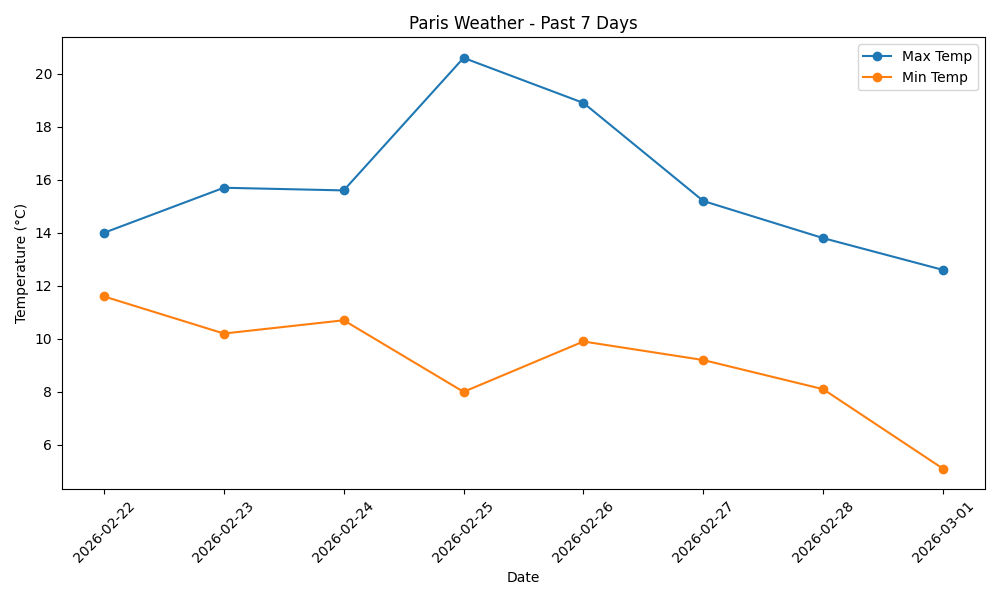
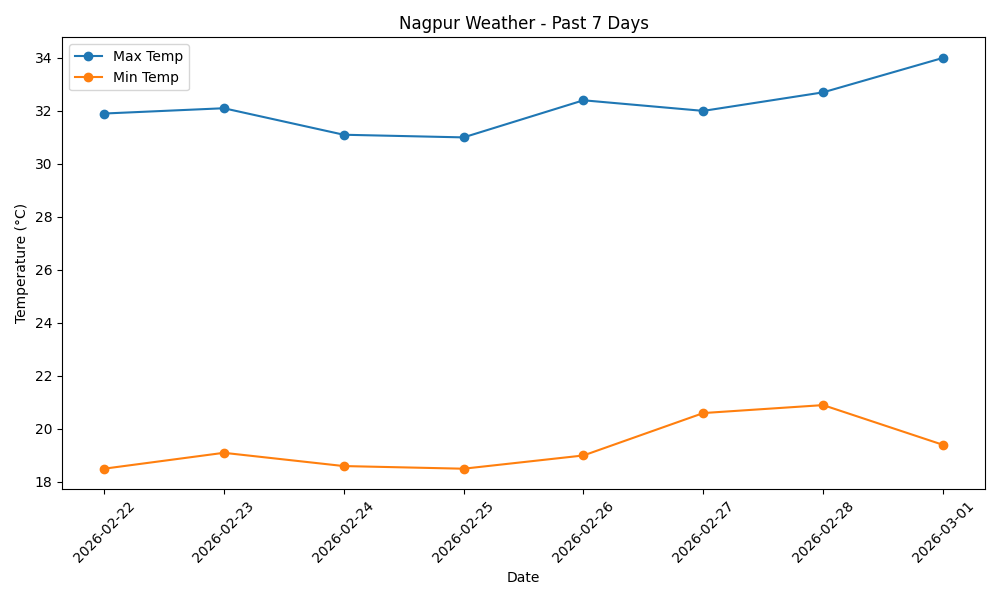
Weather for last 7 days with image and csv file

diff --git a/Weather-details/Weather-details.py b/Weather-details/Weather-details.py
@@ -14,7 +14,7 @@ start_date = week_ago.strftime("%Y-%m-%d")
 end_date = today.strftime("%Y-%m-%d")
 
 # Get Paris weather for past week
-url = f"https://api.open-meteo.com/v1/forecast?latitude=48.85&longitude=2.35&start_date={start_date}&end_date={end_date}&daily=temperature_2m_max,temperature_2m_min"
+url = f"https://api.open-meteo.com/v1/forecast?latitude=21.1458&longitude=79.0882&start_date={start_date}&end_date={end_date}&daily=temperature_2m_max,temperature_2m_min"
 
 response = requests.get(url)
 data = response.json()
@@ -42,7 +42,7 @@ plt.plot(df['date'], df['min_temp'], marker='o', label='Min Temp')
 # Add labels and title
 plt.xlabel('Date')
 plt.ylabel('Temperature (°C)')
-plt.title('Paris Weather - Past 7 Days')
+plt.title('Nagpur Weather - Past 7 Days')
 plt.legend()
 
 # Rotate x-axis labels for readability
@@ -59,5 +59,5 @@ if not os.path.exists('data'):
     os.makedirs('data')
 
 # Save to CSV
-df.to_csv('data/paris_weather.csv', index=False)
-print("Data saved to data/paris_weather.csv")   
+df.to_csv('data/nagpur_weather.csv', index=False)
+print("Data saved to data/nagpur_weather.csv")   
